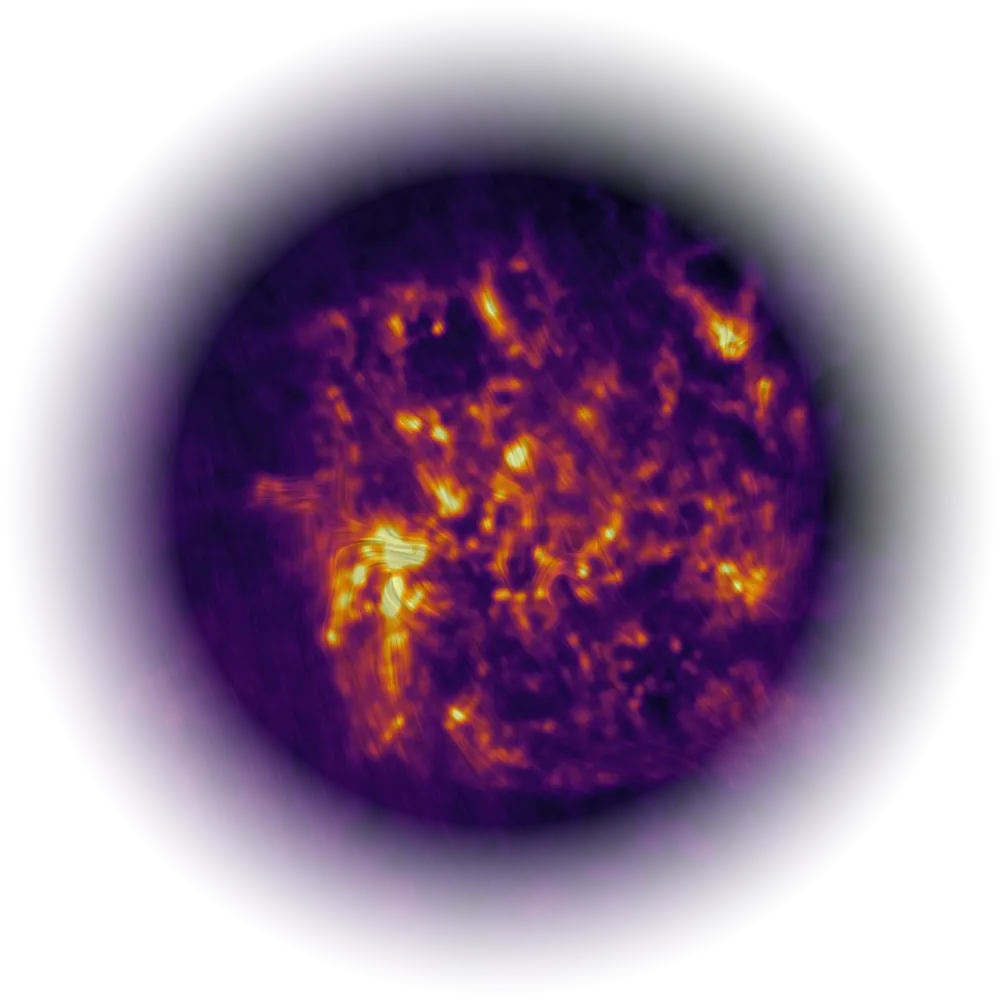
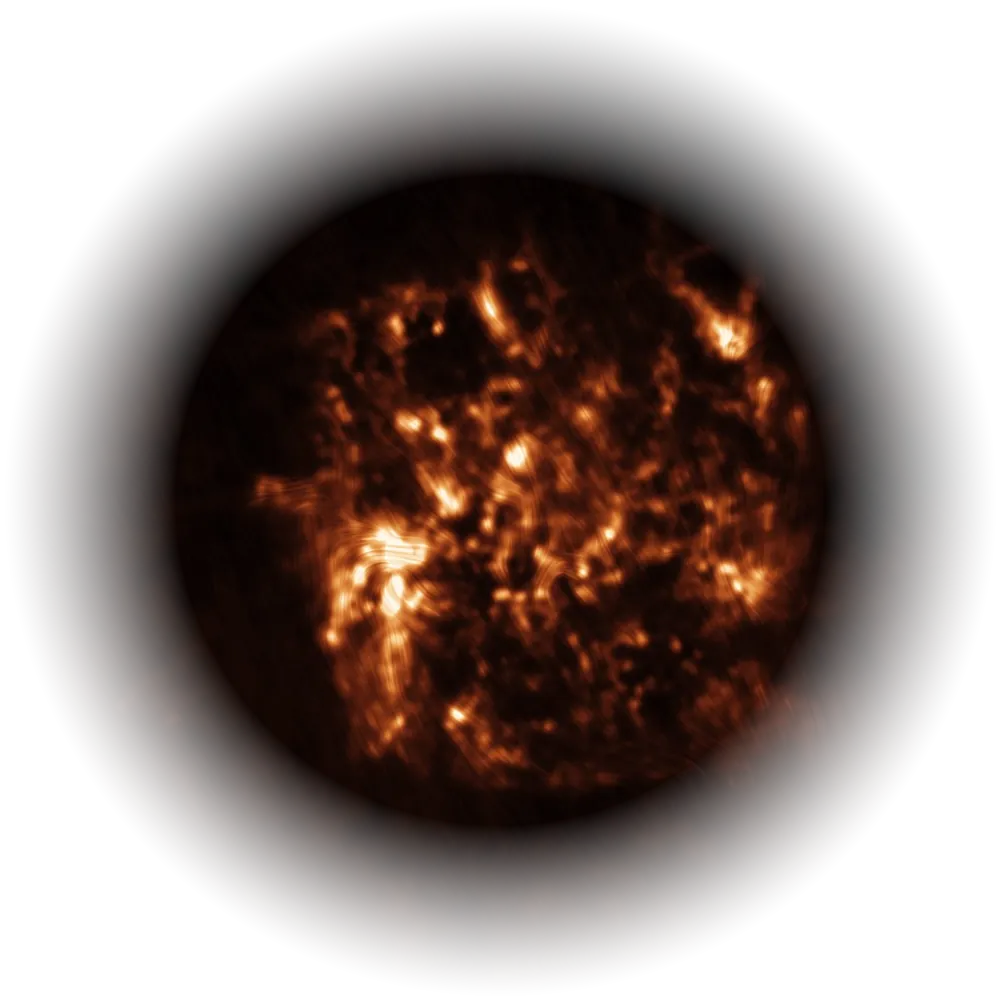
Correct the sky renders and switch Planck to PR4
Planck 353 GHz now comes from the PR4 (NPIPE) maps with the solar dipole
fitted and subtracted. Field angles are converted to the pixel grid with
grid_angle(), which accounts for the tilt of north across a TAN grid (up to
20 deg on the LMC grid) and for the Mollweide projection on the all-sky map.
Dust uses a copper palette with a percentile stretch.

The H I velocity frames are no longer rendered; the cube viewer replaces
them. The Webb Tarantula frame is checked against Spitzer IRAC and Gaia DR3:
north is 13.5 deg left of vertical and the 4:3 crop spans 264 ly.

diff --git a/scripts/render_lmc.py b/scripts/render_lmc.py
@@ -5,7 +5,7 @@ Inputs (from the LMC workspace's shared data folder, LMC_DATA):
     (Parkes, 16'). The GASKAP-HI + Parkes cube we hold is collaboration-internal
     and must not feed the public site until it is released.
   - CO: MAGMA CO(1-0) cube and its rms cube
-  - Dust and magnetic field: Planck HFI 353 GHz I, Q, U (PR3, HEALPix, Galactic)
+  - Dust and magnetic field: Planck HFI 353 GHz I, Q, U (PR4 / NPIPE, HEALPix, Galactic)
 
 Everything is put on one fixed equatorial TAN grid (GRID below: 12 deg, 40"
 pixels), so the layers line up pixel for pixel and can be stacked or
@@ -104,22 +104,6 @@ def hi_products(target_wcs):
     return m0g, m1g, np.stack(chans), v, spectrum, to_grid
 
 
-def write_channels(chans, v, to_grid):
-    """Velocity sweep: N frames, each the mean of a block of channels."""
-    edges = np.linspace(0, len(v), N_CHANNEL_FRAMES + 1).astype(int)
-    hi = np.percentile(chans[chans > 0], 99.8)
-    frames = []
-    cmap = colormaps["magma"]
-    (OUT / "channels").mkdir(exist_ok=True)
-    for i in range(N_CHANNEL_FRAMES):
-        a, b = edges[i], edges[i + 1]
-        plane = np.nan_to_num(to_grid(chans[a:b].mean(axis=0)))
-        x = np.arcsinh(np.clip(plane / hi, 0, 1) / 0.08) / np.arcsinh(1 / 0.08)
-        save_rgba(cmap(x)[..., :3], f"channels/{i:02d}.jpg", quality=80)
-        frames.append(round(float(v[a:b].mean()), 1))
-    return frames
-
-
 def co_moment0(target_wcs, shape):
     with fits.open(CO_CUBE, memmap=True) as h, fits.open(CO_RMS, memmap=True) as hr:
         cube, rms, hdr = h[0].data, hr[0].data, h[0].header
@@ -136,30 +120,108 @@ def co_moment0(target_wcs, shape):
 
 
 def read_planck():
-    return hp.read_map(PLANCK, field=(0, 1, 2), dtype=np.float32)
+    """I, Q, U in K_CMB, RING ordering, with the solar dipole removed from I.
+
+    The NPIPE (PR4) frequency maps keep the solar dipole (3.3 mK towards
+    l=262, b=+48). At 353 GHz it outshines the high-latitude dust and turns
+    one hemisphere bright and the other black, so it is fitted away from the
+    plane (|b| > 30 deg, nside 128) and subtracted. The monopole is left in;
+    every stretch below is percentile based."""
+    m = list(hp.read_map(PLANCK, field=(0, 1, 2), dtype=np.float32))
+    nside = hp.get_nside(m[0])
+    low = hp.ud_grade(m[0], 128)
+    lat = hp.pix2ang(128, np.arange(low.size), lonlat=True)[1]
+    low[np.abs(lat) < 30] = hp.UNSEEN
+    _, dip = hp.fit_dipole(low)
+    step = 1 << 22
+    for s in range(0, m[0].size, step):
+        x, y, z = hp.pix2vec(nside, np.arange(s, min(s + step, m[0].size)))
+        m[0][s : s + step] -= (dip[0] * x + dip[1] * y + dip[2] * z).astype(np.float32)
+    return m
 
 
-def allsky(planck, nside=256, width=2400):
-    """Full-sky Mollweide: dust intensity textured by the field direction.
+# Dust palette for every Planck image: black through oxblood and copper to
+# warm white. Lightness rises monotonically, so brightness always means more
+# dust, and the hue stays clear of the site's signal red.
+DUST_STOPS = [(0.0, "#000000"), (0.18, "#1c0a06"), (0.38, "#5a1e0e"), (0.58, "#a8461a"),
+              (0.76, "#e08a3c"), (0.9, "#f6c98a"), (1.0, "#fff6e6")]
 
-    Q/U are averaged down to nside 256 (about 14') before taking angles; the
-    angle is used directly in the projected plane, which is a fair visual
-    approximation away from the map edge.
+
+# Atomic gas gets a cool monochrome so it never reads as dust.
+GAS_STOPS = [(0.0, "#000000"), (0.2, "#14161a"), (0.42, "#3b4048"), (0.64, "#7d848c"),
+             (0.84, "#c9c7bf"), (1.0, "#fffdf6")]
+
+
+def dust_cmap(stops=None):
+    from matplotlib.colors import LinearSegmentedColormap
+    return LinearSegmentedColormap.from_list("dust", stops or DUST_STOPS)
+
+
+def shade(dust, tex, cmap=None, amount=0.22):
+    """Colour a 0..1 dust map, with the field texture worked into the value
+    before the colormap (not multiplied after it), so the palette stays
+    monotonic and faint regions keep visible streaks."""
+    v = np.clip(dust + amount * (tex - 0.5) * (0.35 + dust), 0, 1)
+    return (cmap or dust_cmap())(v)[..., :3]
+
+
+def mollweide_field_angle(proj, theta, d=0.05):
+    """Convert a field position angle (east of Galactic north) at every pixel
+    of a healpy Mollweide image into the step direction lic() expects.
+
+    Mollweide is not conformal and its meridians converge, so image-up is
+    not north away from the central meridian. The tangent vector
+    cos(theta) N + sin(theta) E is pushed through the projection by finite
+    differences of ang2xy along north and east."""
+    x, y = (np.ma.filled(a.astype(float), np.nan) for a in proj.ij2xy())
+    out = np.full(theta.shape, np.nan)
+    ok = np.isfinite(x) & np.isfinite(y)
+    x, y, th = x[ok], y[ok], theta[ok]
+    lon, lat = proj.xy2ang(x, y, lonlat=True)
+    lat = np.clip(lat, -89.5, 89.5)
+    xy = lambda lo, la: proj.ang2xy(lo, np.clip(la, -90, 90), lonlat=True)
+    xn, yn = xy(lon, lat + d)
+    dlon = d / np.cos(np.radians(lat))
+    xe, ye = xy(lon + dlon, lat)
+    xw, yw = xy(lon - dlon, lat)
+    # At the map's left and right edges one side of the east step wraps to
+    # the far edge; take whichever one-sided difference stayed local.
+    ex, ey = xe - x, ye - y
+    wrap = np.hypot(ex, ey) > np.hypot(xw - x, yw - y) * 3
+    ex, ey = np.where(wrap, x - xw, ex), np.where(wrap, y - yw, ey)
+    vx = np.cos(th) * (xn - x) + np.sin(th) * ex
+    vy = np.cos(th) * (yn - y) + np.sin(th) * ey
+    # healpy projmap rows run upward with y and columns with x, which is the
+    # (x, y-up) frame lic() steps in: (dx, dy) = (-sin a, cos a).
+    out[ok] = np.arctan2(-vx, vy)
+    return out
+
+
+def allsky(planck, nside=512, width=2400, fwhm_arcmin=30):
+    """Full-sky Mollweide: dust intensity textured by the field orientation.
+
+    I, Q, U are smoothed together on the sphere (spin-2 aware) to 30', then
+    projected. The plane-of-sky field is the IAU polarization angle + 90 deg,
+    converted to image directions with the projection's Jacobian.
     """
-    i_map, q_map, u_map = (hp.ud_grade(m, nside) for m in planck)
+    low = [hp.ud_grade(m, nside) for m in planck]
+    i_map, q_map, u_map = hp.smoothing(low, fwhm=np.radians(fwhm_arcmin / 60), pol=True)
     u_map = -u_map  # COSMO -> IAU
     proj = hp.projector.MollweideProj(xsize=width)
     f = lambda m: proj.projmap(m, lambda x, y, z: hp.vec2pix(nside, x, y, z))
     I, Q, U = f(i_map), f(q_map), f(u_map)
     inside = np.isfinite(I) & (I > -1e20)
-    Qs, Us = (gaussian_filter(np.where(inside, a, 0), 1.5) for a in (Q, U))
-    ang = 0.5 * np.arctan2(Us, Qs) + np.pi / 2
-    tex = lic(ang, length=24)
-    dust = stretch(np.where(inside, np.log10(np.clip(I, 1e-3, None)), np.nan), 1, 99.9)
-    rgb = colormaps["inferno"](dust)[..., :3] * (0.4 + 0.8 * tex[..., None])
-    rgba = np.dstack([np.clip(rgb, 0, 1), inside.astype(float)])
+    theta = 0.5 * np.arctan2(np.where(inside, U, 0), np.where(inside, Q, 1)) + np.pi / 2
+    ang = mollweide_field_angle(proj, theta)
+    tex = lic(np.where(inside, ang, 0), length=26)
+    lo = np.percentile(I[inside], 0.5)
+    dust = stretch(np.where(inside, np.log10(np.clip(I - lo, 1e-6, None)), np.nan), 2, 99.95)
+    # Drop the faintest fifth (CMB and CIB dominate there at 30') to black.
+    dust = np.clip((dust - 0.2) / 0.8, 0, 1)
+    rgba = np.dstack([shade(dust, tex, amount=0.45), inside.astype(float)])
     save_rgba(rgba, "allsky_bfield.png")
     save_gray(np.where(inside, tex, 0), "allsky_lic.jpg")
+    np.save(OUT / "allsky_dust.npy", np.where(inside, dust, 0).astype(np.float32))
 
 
 def planck_maps(planck, target_wcs, shape, smooth_px=12):
@@ -186,12 +248,35 @@ def planck_maps(planck, target_wcs, shape, smooth_px=12):
     return I, b_eq, p
 
 
+def grid_angle(wcs, shape, pa, step_arcmin=2.0):
+    """Turn a position angle on the sky into an angle on the pixel grid.
+
+    pa is measured from north towards east in the WCS's own frame (celestial
+    for RA/Dec grids, Galactic for GLON/GLAT). Away from the projection centre
+    local north is not the grid's vertical (on the 12 deg LMC grid at
+    Dec -68.5 it tilts by up to ~20 deg), so we step along pa on the sky and
+    project the step. Returns the angle lic() expects: step (-sin a, cos a)
+    in array (x, y) with y up, i.e. measured from +y towards -x.
+    """
+    yy, xx = np.mgrid[0 : shape[0], 0 : shape[1]]
+    sky = wcs.pixel_to_world(xx.ravel(), yy.ravel())
+    to = sky.directional_offset_by(np.ravel(pa) * u.rad, step_arcmin * u.arcmin)
+    x2, y2 = wcs.world_to_pixel(to)
+    a = np.arctan2(-(x2 - xx.ravel()), y2 - yy.ravel())
+    return a.reshape(shape)
+
+
+def north_tilt(wcs, shape):
+    """Grid angle of local north at each pixel (0 at the projection centre)."""
+    return grid_angle(wcs, shape, np.zeros(shape))
+
+
 def lic(angle, length=30, seed=1):
     """Line integral convolution of white noise along the field direction.
 
-    angle is the position angle east of north; image x grows to the west on
-    this grid (CDELT1 < 0) after the vertical flip used for saving, so the
-    pixel step is (-sin, cos) in array (x, y) with y up.
+    angle is measured on the pixel grid from +y towards -x (use grid_angle()
+    to convert a sky position angle), so the pixel step is (-sin, cos) in
+    array (x, y) with y up.
     """
     ny, nx = angle.shape
     rng = np.random.default_rng(seed)
@@ -235,10 +320,9 @@ def regions(planck, size=900):
         I, Q, U = proj(planck[0]), proj(planck[1]), -proj(planck[2])
         sm = max(2.0, 10 * (8.0 / width) ** -0.3)
         ang = 0.5 * np.arctan2(gaussian_filter(np.nan_to_num(U), sm), gaussian_filter(np.nan_to_num(Q), sm)) + np.pi / 2
-        tex = lic(ang, length=28)
+        tex = lic(grid_angle(wcs, (size, size), ang), length=28)
         dust = stretch(np.log10(np.clip(I, 1e-3, None)), 1, 99.8)
-        rgb = colormaps["inferno"](dust)[..., :3] * (0.4 + 0.8 * tex[..., None])
-        save_rgba(np.clip(rgb, 0, 1), f"region_{name}.jpg")
+        save_rgba(shade(dust, tex, amount=0.4), f"region_{name}.jpg")
         print("region", name, flush=True)
 
 
@@ -252,13 +336,12 @@ def main():
 
     hi = stretch(m0, 2, 99.9, asinh=0.15)
     save_gray(hi, "hi_column.jpg")
-    save_rgba(colormaps["magma"](hi)[..., :3], "hi_column_color.jpg")
+    save_rgba(dust_cmap(GAS_STOPS)(hi)[..., :3], "hi_column_color.jpg")
 
     vel = (np.nan_to_num(m1, nan=np.nanmedian(m1)) - 200) / (320 - 200)
     rgb = colormaps["RdBu_r"](np.clip(vel, 0, 1))[..., :3] * hi[..., None] ** 0.8
     save_rgba(rgb, "hi_velocity.jpg")
 
-    frames = write_channels(chans, v, to_grid)
     del chans
 
     print("CO ...", flush=True)
@@ -273,21 +356,22 @@ def main():
     allsky(planck)
     I, b_eq, p = planck_maps(planck, wcs, shape)
     dust = stretch(I, 2, 99.8, asinh=0.2)
-    save_rgba(colormaps["inferno"](dust)[..., :3], "dust_353.jpg")
-    tex = lic(b_eq)
+    save_rgba(dust_cmap()(dust)[..., :3], "dust_353.jpg")
+    b_grid = grid_angle(wcs, shape, b_eq)
+    tex = lic(b_grid)
     save_gray(tex, "bfield_lic.jpg")
-    combo = colormaps["inferno"](dust)[..., :3] * (0.45 + 0.75 * tex[..., None])
-    save_rgba(np.clip(combo, 0, 1), "bfield_on_dust.jpg")
-    np.save(OUT / "bfield_angle.npy", b_eq.astype(np.float32))
+    save_rgba(shade(dust, tex, amount=0.4), "bfield_on_dust.jpg")
+    # Grid angle for drawing; north tilt so a readout can recover the sky PA.
+    np.save(OUT / "bfield_angle.npy", b_grid.astype(np.float32))
+    np.save(OUT / "north_tilt.npy", north_tilt(wcs, shape).astype(np.float32))
 
     meta = {
         "grid": {"nx": shape[1], "ny": shape[0], "wcs": dict(wcs.to_header())},
-        "channels_kms": frames,
         "hi_spectrum": {"v_kms": [round(float(x), 2) for x in v], "sum_K": [float(x) for x in spectrum]},
         "sources": {
             "hi": HI_CUBE.name,
             "co": "MAGMA CO(1-0), Wong et al. 2011",
-            "dust_bfield": "Planck HFI 353 GHz PR3, I/Q/U, smoothed",
+            "dust_bfield": "Planck HFI 353 GHz PR4 (NPIPE), I/Q/U, smoothed",
         },
     }
     (OUT / "meta.json").write_text(json.dumps(meta, indent=1, default=str))

diff --git a/scripts/web_assets.py b/scripts/web_assets.py
@@ -25,8 +25,8 @@ OUT = ROOT / "public" / "sky"
 DATA = ROOT / "src" / "data" / "sky.json"
 
 FIELD_N = 96  # field-angle grid the dot field samples
+TILT_N = 24  # coarse grid of local north, for the PA readout
 ALLSKY_W = 2400  # must match render_lmc.allsky width
-LMC_CENTRE = SkyCoord(ra=80.894 * u.deg, dec=-69.756 * u.deg)
 TARGETS = {
     "30 Doradus": "05h38m42s -69d06m03s",
     "N11": "04h56m49s -66d24m00s",
@@ -35,7 +35,7 @@ TARGETS = {
     "N79": "04h52m00s -69d22m00s",
 }
 IMAGES = {
-    "allsky_bfield.png": ("allsky.webp", 2000),
+    "allsky_bfield.png": ("allsky.webp", 2400),
     "hi_column_color.jpg": ("lmc-hi.webp", 1000),
     "hi_velocity.jpg": ("lmc-vel.webp", 1000),
     "co_clouds.png": ("lmc-co.webp", 1000),
@@ -71,20 +71,25 @@ def main():
     meta = json.loads((SRC / "meta.json").read_text())
     for src, (dst, size) in IMAGES.items():
         save(src, dst, size)
-    # Vignetted dust + field texture for the zoom: the square map edge must
-    # not show. Planck (5') is sharper than the public GASS H I (16').
+    # Vignetted dust + field texture: the square map edge must not show.
     save("bfield_on_dust.jpg", "lmc-bfield-v.webp", 1000, alpha=True)
     for r in REGIONS:
         save(f"region_{r}.jpg", f"region-{r}.webp", 900)
-    (OUT / "channels").mkdir(exist_ok=True)
-    for i, _ in enumerate(meta["channels_kms"]):
-        save(f"channels/{i:02d}.jpg", f"channels/{i:02d}.webp", 640)
 
-    # Field angle grid: circular mean in 2*theta, rows top = north.
+    # Field angle grid: circular mean in 2*theta, rows top = north. The cells
+    # cover the whole grid (uneven 11-12 px blocks), so the dashes register
+    # with the images the dots are drawn over.
     a = np.load(SRC / "bfield_angle.npy")
-    b = a.shape[0] // FIELD_N
-    blk = lambda x: x[: FIELD_N * b, : FIELD_N * b].reshape(FIELD_N, b, FIELD_N, b).mean((1, 3))
+    e0 = np.linspace(0, a.shape[0], FIELD_N + 1).astype(int)[:-1]
+    e1 = np.linspace(0, a.shape[1], FIELD_N + 1).astype(int)[:-1]
+    blk = lambda x: np.add.reduceat(np.add.reduceat(x, e0, axis=0), e1, axis=1)
     ang = (0.5 * np.arctan2(blk(np.sin(2 * a)), blk(np.cos(2 * a))))[::-1]
+    # Local north on the grid, coarse (it varies smoothly): the dot field's
+    # readout subtracts it to show the position angle east of north.
+    t = np.load(SRC / "north_tilt.npy")
+    t0 = np.linspace(0, t.shape[0], TILT_N + 1).astype(int)[:-1]
+    t1 = np.linspace(0, t.shape[1], TILT_N + 1).astype(int)[:-1]
+    tilt = (np.add.reduceat(np.add.reduceat(t, t0, axis=0), t1, axis=1) / np.outer(np.diff(np.r_[t0, t.shape[0]]), np.diff(np.r_[t1, t.shape[1]])))[::-1]
 
     wcs, nx, ny = grid_wcs(meta)
     targets = {}
@@ -92,8 +97,10 @@ def main():
         x, y = wcs.world_to_pixel(SkyCoord(v, unit=(u.hourangle, u.deg)))
         targets[k] = [round(float(x) / nx, 4), round(1 - float(y) / ny, 4)]
 
-    # LMC position on the Mollweide all-sky map and the angle of celestial
-    # north there (clockwise from up), from continuous projected coordinates.
+    # Position on the Mollweide all-sky map and the angle of celestial north
+    # there (clockwise from up), from continuous projected coordinates. Both
+    # are taken at the grid centre: that is the point the zoom pins the LMC
+    # image to (the optical centre is 1.2 deg away).
     proj = hp.projector.MollweideProj(xsize=ALLSKY_W)
 
     def xy(c):
@@ -102,8 +109,10 @@ def main():
 
     # Projected x grows with image column and y grows up. Use continuous x, y:
     # xy2ij rounds to whole pixels, which snaps this angle to 90 deg.
-    x0, y0 = xy(LMC_CENTRE)
-    x1, y1 = xy(SkyCoord(ra=LMC_CENTRE.ra, dec=LMC_CENTRE.dec + 0.1 * u.deg))
+    g = meta["grid"]["wcs"]
+    centre = SkyCoord(ra=g["CRVAL1"] * u.deg, dec=g["CRVAL2"] * u.deg)
+    x0, y0 = xy(centre)
+    x1, y1 = xy(SkyCoord(ra=centre.ra, dec=centre.dec + 0.1 * u.deg))
     i, j = proj.xy2ij(x0, y0)
     rot = float(np.degrees(np.arctan2(x1 - x0, y1 - y0)))
 
@@ -115,7 +124,8 @@ def main():
     out = {
         "field_n": FIELD_N,
         "field": [round(float(v), 3) for v in ang.ravel()],
-        "channels_kms": meta["channels_kms"],
+        "tilt_n": TILT_N,
+        "north_tilt": [round(float(v), 3) for v in tilt.ravel()],
         "lmc_in_allsky": [round(float(j) / ALLSKY_W, 4), round(1 - float(i) / (ALLSKY_W / 2), 4)],
         "lmc_rot_deg": round(rot, 1),
         "hi_spectrum": [round(float(v), 3) for v in bars],

diff --git a/scripts/composites.py b/scripts/composites.py
@@ -298,7 +298,8 @@ def star_layer(a):
 
 
 def field_angle(r, wcs, planck):
-    """Plane-of-sky field position angle on this grid, smoothed over ~2 Planck beams."""
+    """Plane-of-sky field position angle (from north in the grid's frame). Q and U are smoothed with a
+    10' sigma Gaussian (FWHM about 24') for signal to noise, much wider than the 5' beam."""
     n = r["n"]
     smooth = (10 / 60) / (r["fov"] / n)
     if r["frame"] == "icrs":
@@ -376,7 +377,8 @@ def composite(name, planck):
     # LIC on a quarter-resolution grid, upsampled and softened, so the field
     # reads as broad flowing lines rather than pixel scratches.
     f = 4
-    ang = field_angle(r, wcs, planck)[::f, ::f]
+    pa = field_angle(r, wcs, planck)[::f, ::f]
+    ang = rl.grid_angle(wcs.slice((slice(None, None, f), slice(None, None, f))), pa.shape, pa)
     tex = gaussian_filter(zoom(rl.lic(ang, length=30), f, order=1)[: r["n"], : r["n"]], 1.6)
     tex = (tex - tex.mean()) / (tex.std() + 1e-9)
     lum = rgb.max(axis=2, keepdims=True)

diff --git a/scripts/webb_images.py b/scripts/webb_images.py
@@ -34,7 +34,9 @@ IMAGES = {
     "weic2301a": "ngc346",
 }
 # R136 sits off the brightest smoothed peak in the Tarantula frame, so its
-# position is set by hand from the release's annotated image.
+# position is set by hand from the release's annotated image. Checked against
+# an astrometric fit of the full mosaic to Spitzer IRAC 3.6 um (0.0300"/px,
+# north 13.5 deg left of vertical): R136a1 lands within 0.7" of this point.
 CORE_OVERRIDE = {"tarantula": [0.5967, 0.5508]}
 WIDTHS = (960, 1920)
 N_SOURCES = 70
